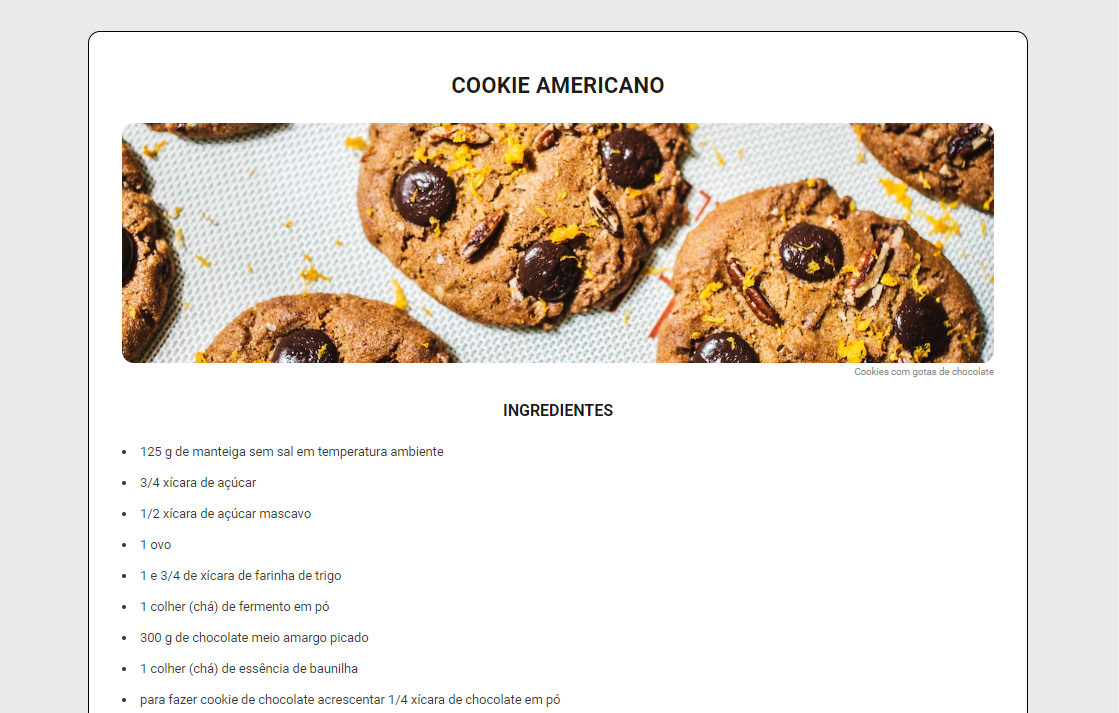
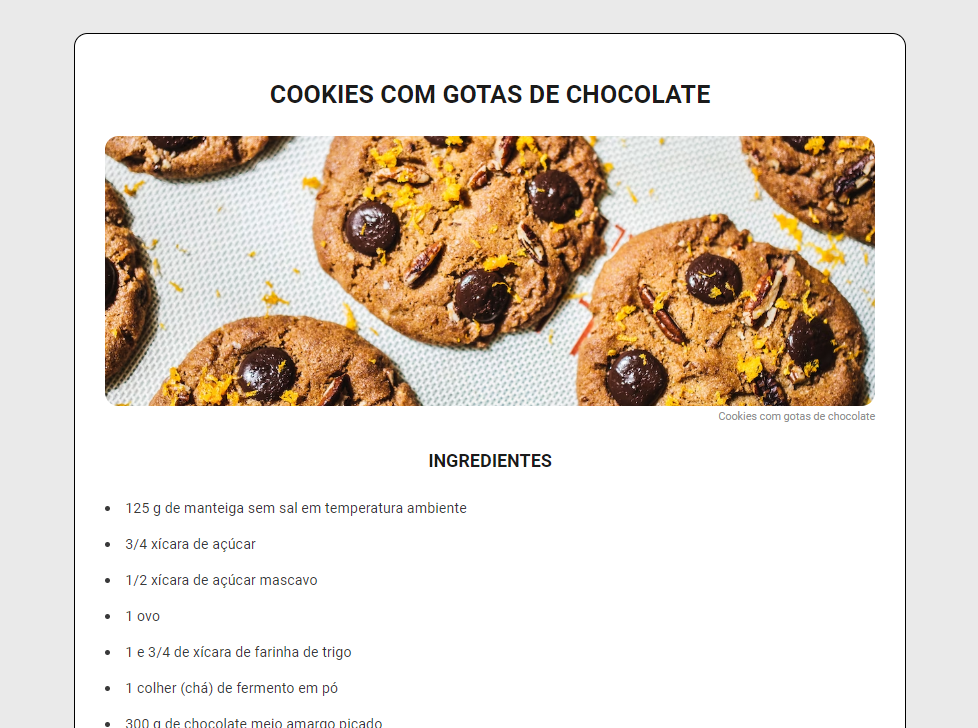
Adicionei algumas modificações

diff --git a/index.html b/index.html
@@ -16,7 +16,7 @@
 
     <main>
         <div class="container">
-            <h2>Cookie Americano</h2>
+            <h2>Cookies com Gotas de Chocolate</h2>
             <figure>
                 <img src="https://images.unsplash.com/photo-1464195085758-89f3e55e821e?ixlib=rb-4.0.3&ixid=MnwxMjA3fDB8MHxwaG90by1wYWdlfHx8fGVufDB8fHx8&auto=format&fit=crop&w=1169&q=80"
                     alt="Foto de Cookies com chocolate" />
